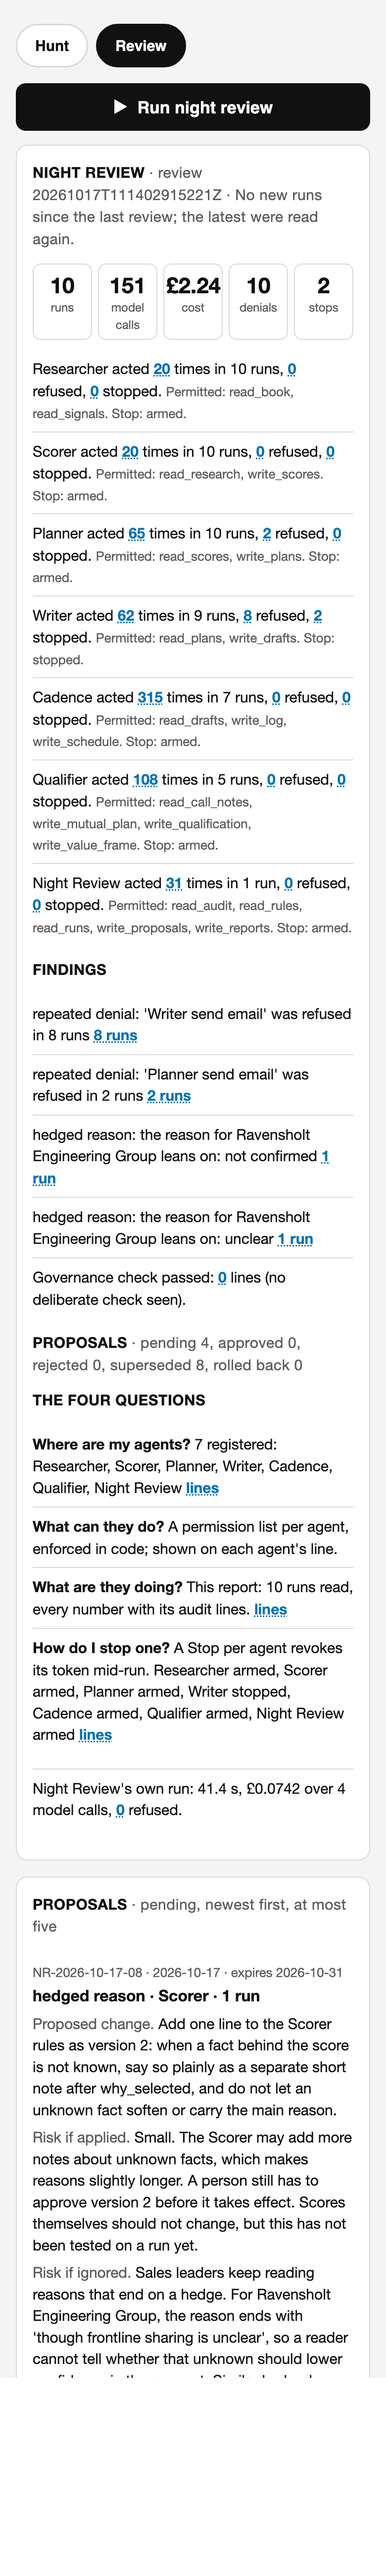
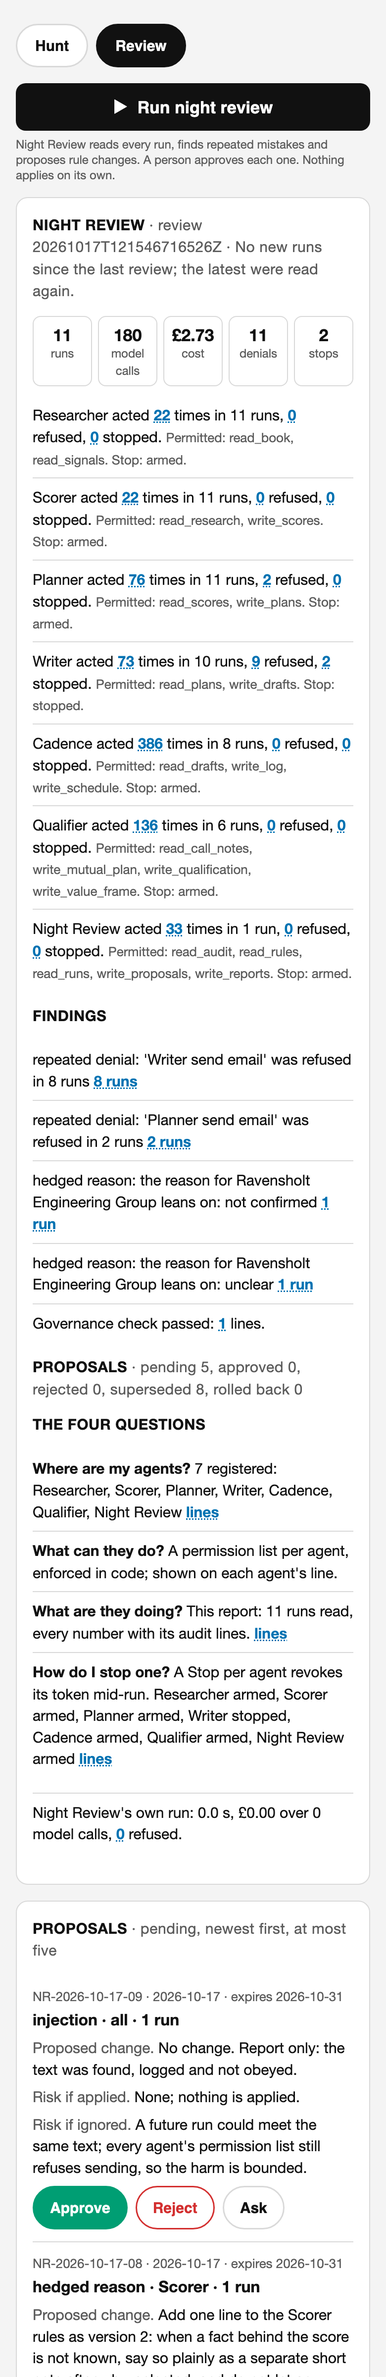
Review tab, phone: cost to two decimals, smaller tile numbers, Hunt footer line, caption under the button

Changed region(s): [[0.0308, 0.0, 0.9538, 1.0]]

diff --git a/web/index.html b/web/index.html
@@ -130,7 +130,7 @@
   .decided { color: var(--muted); font-size: 14px; margin-top: 10px; }
   .tiles { display: grid; grid-template-columns: repeat(5, minmax(0, 1fr)); gap: 6px; margin-bottom: 10px; }
   .tile { border: 1px solid var(--line); border-radius: 8px; padding: 8px 2px 6px; text-align: center; background: #fff; cursor: pointer; min-height: 44px; }
-  .tile .tv { font-size: 22px; font-weight: 600; line-height: 1.2; font-variant-numeric: tabular-nums; }
+  .tile .tv { font-size: 17px; font-weight: 600; line-height: 1.2; font-variant-numeric: tabular-nums; white-space: nowrap; overflow: hidden; }
   .tile .tl { font-size: 12px; color: var(--muted); }
   .rline { font-size: 15px; padding: 8px 0; border-top: 1px solid var(--line); }
   .rline:first-child { border-top: 0; }
@@ -140,6 +140,7 @@
   .rbox li { padding: 3px 0; border-top: 1px solid #eee; list-style: none; }
   .rbox li.red { color: var(--red); }
   .thin { color: #8a5a00; font-size: 15px; margin: 0 0 8px; }
+  .reviewcap { margin: -8px 0 14px; line-height: 1.3; }
   .runreview { display: block; width: 100%; min-height: 48px; border: 0; border-radius: 10px; background: var(--ink); color: #fff; font: 600 17px Inter, -apple-system, sans-serif; cursor: pointer; margin: 0 0 14px; }
   .runreview:disabled { opacity: .55; }
   body.review-mode .hunt { display: none; }
@@ -237,6 +238,7 @@
   </div>
   <section class="reviewpane review" aria-label="Review">
     <button class="runreview" id="runreview" type="button">&#9654;&nbsp; Run night review</button>
+    <p class="credit reviewcap">Night Review reads every run, finds repeated mistakes and proposes rule changes. A person approves each one. Nothing applies on its own.</p>
     <section class="card" aria-label="Night review dashboard">
       <h2>NIGHT REVIEW <span id="dashwhen">&middot; no review yet</span></h2>
       <p class="thin" id="thin" hidden></p>
@@ -256,7 +258,7 @@
       <div id="props"></div>
       <div class="decided" id="decided"></div>
     </section>
-    <footer>Night Review proposes and never applies. A person decides, one proposal at a time. All data invented.</footer>
+    <footer>Night Review proposes and never applies. A person decides, one proposal at a time. All data invented. Every agent acts on the AE's behalf. No agent is permitted to send. Times are UK. Built by <b>Garret O'Leary</b> with <b>Claude Code</b> on the Claude API.</footer>
   </section>
   <div class="head hunt">
     <div>

diff --git a/tests/test_web.py b/tests/test_web.py
@@ -292,3 +292,16 @@ def test_chain_counts_match_the_state_and_each_links_to_audit_lines():
 
 def test_live_cost_is_zero_before_a_run():
     assert App().snapshot()["cost_live_gbp"] == 0.0 and App().snapshot()["chain"] == []
+
+
+def test_review_tab_caption_footer_and_two_decimal_costs():
+    """Three phone fixes, 17 October: cost to two decimals everywhere, the Hunt footer line on the Review tab, a caption under the button."""
+    from opening_doors import config
+    html = (config.ROOT / "web" / "index.html").read_text()
+    assert "Night Review reads every run, finds repeated mistakes and proposes rule changes. A person approves each one. Nothing applies on its own." in html
+    review_footer = html[html.index('<section class="reviewpane'):html.index('<div class="head hunt">')]
+    assert "Every agent acts on the AE's behalf. No agent is permitted to send. Times are UK. Built by <b>Garret O'Leary</b> with <b>Claude Code</b> on the Claude API." in review_footer
+    assert 'Number(T.cost_gbp.value).toFixed(2)' in html and ".4f" not in html
+    from opening_doors import review_report
+    import inspect
+    assert ":.4f" not in inspect.getsource(review_report)

diff --git a/opening_doors/review_report.py b/opening_doors/review_report.py
@@ -106,7 +106,7 @@ def build(review_dir: Optional[Path] = None) -> Dict:
     nr_den = [{"run": "review", "line": n} for n, e in enumerate(review_audit, 1) if e.get("outcome") == "denied"]
     own = {"seconds": summary.get("seconds"), "cost_gbp": summary.get("gbp"), "model_calls": summary.get("model_calls"),
            "denials": _num(len(nr_den), nr_den), "review": summary.get("review"),
-           "words": f"Night Review's own run: {summary.get('seconds')} s, £{float(summary.get('gbp') or 0):.4f} over {summary.get('model_calls')} model calls, {len(nr_den)} refused."}
+           "words": f"Night Review's own run: {summary.get('seconds')} s, £{float(summary.get('gbp') or 0):.2f} over {summary.get('model_calls')} model calls, {len(nr_den)} refused."}
 
     alliance = [
         {"question": "Where are my agents?", "answer": f"{len(AGENTS)} registered: " + ", ".join(n for _, n in AGENTS), "receipts": [{"run": r, "line": n} for r in runs[:1] for n, e in enumerate(audits[r], 1) if e.get("what") == "registered"]},
